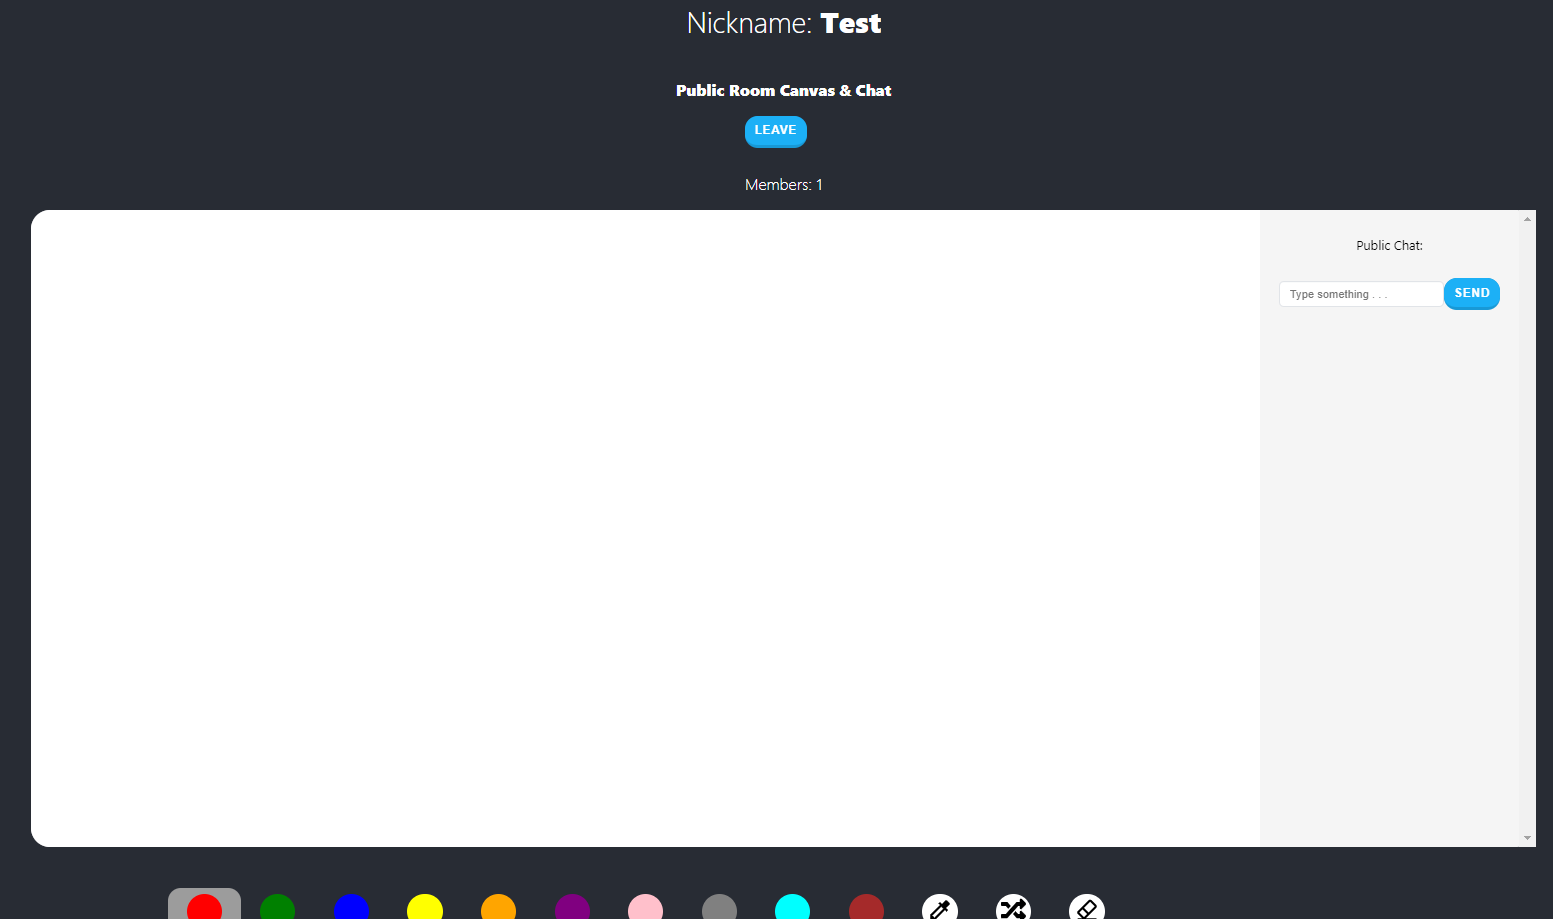
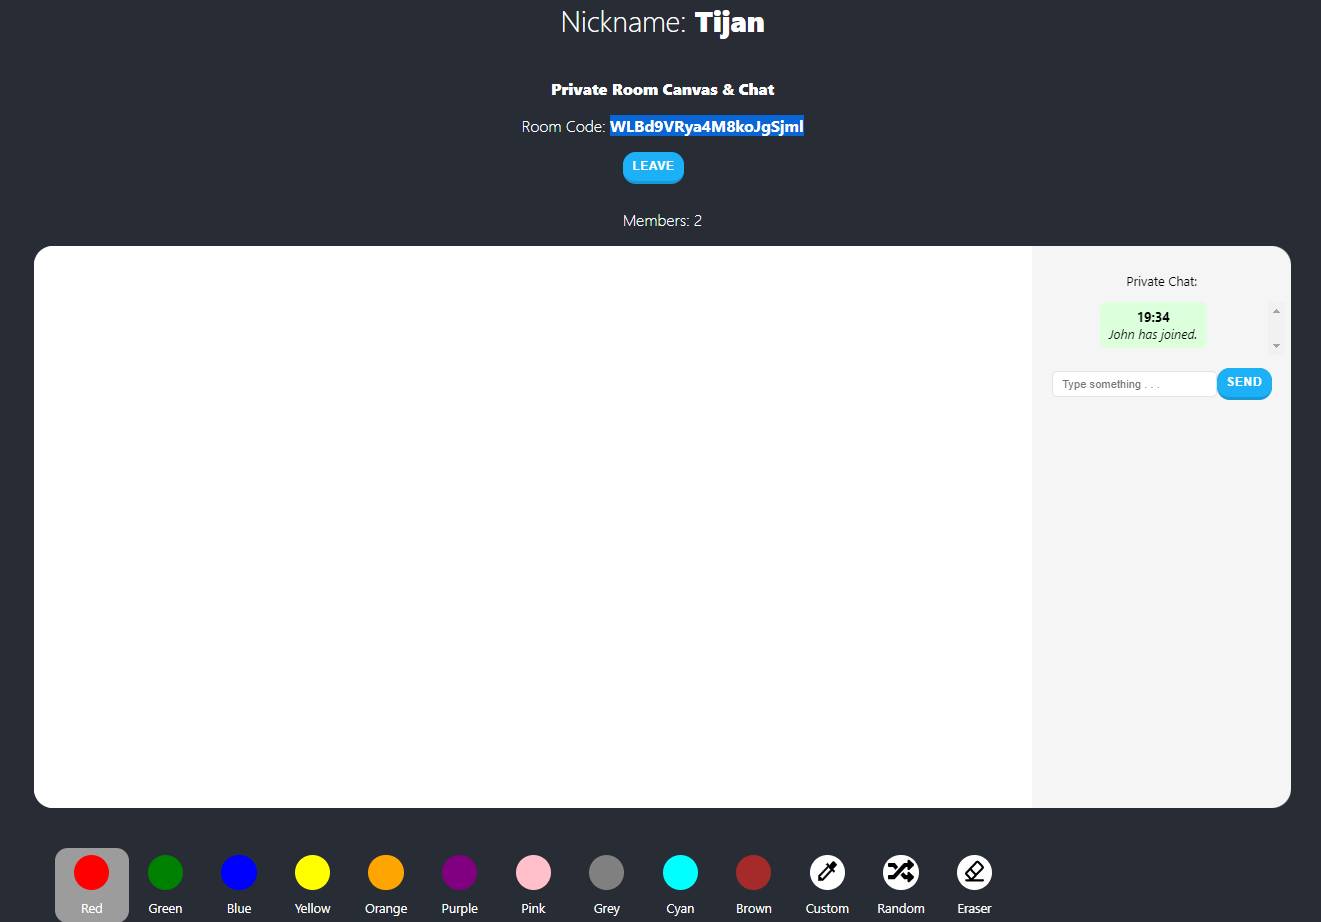
fixed chat bug

Changed region(s): [[0.0, 0.0914, 0.9932, 1.0], [0.4345, 0.0, 0.5897, 0.0609]]

diff --git a/ui/src/components/Chat/ChatRooms.tsx b/ui/src/components/Chat/ChatRooms.tsx
@@ -10,7 +10,7 @@ interface ChatRoomsProps {
 
 const ChatRooms: React.FC<ChatRoomsProps> = ({ user, roomId }) => {
 
-  const [messages, setMessages] = useState<MessageRoom[]>([]);
+  const [messages, setMessages] = useState<Message[]>([]);
   const [toSend, setToSend] = useState<string>("");
   const [fetchAmount, setFetchAmount] = useState<number>(10);
 
@@ -41,32 +41,59 @@ const ChatRooms: React.FC<ChatRoomsProps> = ({ user, roomId }) => {
       console.log("data: ", data);
       console.log("messages ", messages);
       if(data!=messages[messages.length-1]) {
-        setMessages(prev => [...prev, data]);
+        setMessages(prev => [...prev, data.message]);
         console.log("added");
         setToSend("");
       }
     });
   }, []);
 
+  useEffect(() => {
+    (async function get() {
+      if(roomId == "public") {
+        const url = `/last-messages${fetchAmount==0 ? "":`?=${fetchAmount}`}`;
+        const response = await fetch(url);
+        const lastMessages = await response.json();
+        setMessages(lastMessages.messages);
+      }
+    })();
+  }, [fetchAmount]);
+
+  useEffect(() => {
+    bottomRef.current?.scrollIntoView({behavior: "smooth"});
+  }, [messages]);
+
   return(
-    <div className="chat-div" style={{ height: window.innerHeight*0.85 }}>
+    <div className="chat-div" style={{ height: window.innerHeight*0.75 }}>
       <div style={{ paddingTop: "1rem", paddingBottom: "1rem", paddingLeft: "0.5rem", paddingRight: "0.5rem" }}>
         <p>{roomId.length>14? "Private":"Public"} Chat:</p>
-        {messages.map((message: MessageRoom, index: number) => {
-          {/**fix later */}
-          if(message!==messages[index-1]) {
-            return(
-              <MessageComponent
-                key={index}
-                message={message.message}
-                nickname={user.username}
-              />
-            );
-          }
-        })}
+        {roomId.length<19 ? (
+          <p>Load last
+            <select name="amounts" id="amount" value={fetchAmount} onChange={e => setFetchAmount(Number(e.target.value))}>
+              <option value={10}>10</option>
+              <option value={25}>25</option>
+              <option value={50}>50</option>
+              <option value={100}>100</option>
+              <option value={0}>all</option>
+            </select>
+          messages</p>
+        ):null}
+        <div style={{ maxHeight: "32rem", overflow: "scroll", overflowX: "hidden" }}>
+          {messages.map((message: Message, index: number) => {
+            {/**fix later */}
+            if(message!==messages[index-1]) {
+              return(
+                <MessageComponent
+                  key={index}
+                  message={message}
+                  nickname={user.username}
+                />
+              );
+            }
+          })}
+        </div>
+        <div ref={bottomRef} />
         
-        {/*        <div ref={bottomRef} />
-*/}
         <div className="chat-input-box">
           <input className="input" placeholder="Type something . . ." value={toSend} onChange={e => setToSend(e.target.value)} />
           <button className="button-19" onClick={sendMessage}>Send</button>

diff --git a/backend/server/index.js b/backend/server/index.js
@@ -5,8 +5,6 @@ const server = http.createServer(app);
 const io = require('socket.io')(server, {cors: {origin: "*"}});
 const PORT = process.env.PORT || 3001;
 
-app.use(express.json());
-app.use(express.urlencoded({ extended: false }));
 
 let lastImage;
 let lastPublicMessages = [];
@@ -53,7 +51,7 @@ io.use((socket, next) => {
       userID: id,
       username: _socket.username,
     });
-    if(_socket.username == username) {
+    if(_socket.username.toLowerCase() == username.toLowerCase()) {
       alreadyTaken = true;
     }
   }
@@ -145,6 +143,11 @@ io.on('connection', (socket)=> {
     socket.join(roomName);
     console.log("joined", socket.rooms);
     socket.emit("joined-room", roomName);
+    const data = {
[1 lines of base64/hex data omitted]
+      roomId: room,
+    }
+    socket.emit("canvas-rooms", data);
   });
 
   // JOIN ROOM
@@ -172,9 +175,13 @@ io.on('connection', (socket)=> {
 
   // GET ROOM MEMBERS
   socket.on("get-num-of-members", (room) => {
-    let members =  io.sockets.adapter.rooms.get(room).size;
-    io.to(room).emit("members", members);
-  })
+    if(io.sockets.adapter.rooms.get(room)) {
+      let members =  io.sockets.adapter.rooms.get(room).size;
+      io.to(room).emit("members", members);
+    }else{
+      io.to(room).emit("members", "-");
+    }
+  });
 
   // LEAVE ROOM
   socket.on("leave-room", (room) => {
@@ -200,7 +207,6 @@ io.on('connection', (socket)=> {
     if(roomId=="public") {
       lastImage = image;
     }
-    console.log("Received Image Data for public board.")
     io.in(roomId).emit('canvas-rooms', data);   // broadcast -> everyone except sender, emit -> everyone
   });
 

diff --git a/ui/src/App.tsx b/ui/src/App.tsx
@@ -7,7 +7,7 @@ import CanvasRooms from "./components/Canvas/CanvasRooms";
 
 function App() {
 
-  const [members, setMembers] = useState<number>(1);
+  const [members, setMembers] = useState<number|string>(1);
   const [room, setRoom] = useState<string>("");
   const [roomInput, setRoomInput] = useState<string>("");
   const [nickname, setNickname] = useState<string>("");
@@ -91,6 +91,15 @@ function App() {
     socket.emit("join-room", "public");
   };
 
+  const sendEmail = () => {
+    fetch("/send-email", {
+      method: "POST",
+      body: JSON.stringify({
+        to: "test"
+      })
+    }).then(res => res.json()).then(data => console.log(data));
+  };
+
   return (
     <>
       <div className="App">
@@ -133,19 +142,32 @@ function App() {
                   <p  className='nickname-text' style={{ fontWeight: "300" }}>Members: {members}</p>
                 </div>
                 <div style={{ display: "flex", flexDirection: "row", justifySelf: "center", justifyContent: "center", marginLeft: "auto", marginRight: "auto" }}>
-                  <div>
-                    <CanvasRooms setMembers={setMembers} roomId={room} />
-                  </div>
-                  <div>
-                    <ChatRooms roomId={room} user={user ? user:{userID: "", username: ""}} />
-                  </div>
+                  {room.length>19 ? (
+                    <>
+                      <div>
+                        <CanvasRooms setMembers={setMembers} roomId={room} />
+                      </div>
+                      <div>
+                        <ChatRooms roomId={room} user={user ? user:{userID: "", username: ""}} />
+                      </div>
+                    </>
+                  ):(
+                    <>
+                      <div>
+                        <CanvasRooms setMembers={setMembers} roomId={"public"} />
+                      </div>
+                      <div>
+                        <ChatRooms roomId={"public"} user={user ? user:{userID: "", username: ""}} />
+                      </div>
+                    </>
+                  )}
                 </div>
               </>
             )}
           </>
         )}
-
       </div>
+      <button onClick={sendEmail}>Send</button>
     </>
   );
 }

diff --git a/ui/src/components/Chat/Message.tsx b/ui/src/components/Chat/Message.tsx
@@ -8,8 +8,7 @@ interface MessageProps {
 
 const MessageComponent: React.FC<MessageProps> = ({ message, nickname }) => {
   const isSender = message.sender==nickname;
-  console.log(message);
-
+  
   const getClassName = () => {
     const isSender = message.sender === nickname;
     const isSystem = message.sender === "";
@@ -18,11 +17,22 @@ const MessageComponent: React.FC<MessageProps> = ({ message, nickname }) => {
     else return "message-div-text";
   };
 
+  const getMessage = () => {
+    const str = message.message;
+    const first = str.split(" ")[0];
+
+    if(first.toLowerCase()===nickname.toLowerCase() && message.sender==="") {
+      return str.replace(`${first} has`, "You have");
+    }
+    
+    return str;
+  };
+
   return(
     <div className={`${getClassName()} message-div`}>
       <span><b>{message.sender} {isSender ? "(you)":""}{"   "}{message.date}</b></span>
       <br />
-      <span><i>{message.message}</i></span>
+      <span><i>{getMessage()}</i></span>
     </div>
   );
 };

diff --git a/ui/src/components/Canvas/CanvasRooms.tsx b/ui/src/components/Canvas/CanvasRooms.tsx
@@ -293,7 +293,7 @@ const CanvasRooms: React.FC<CanvasRoomProps> = ({
   return(
     <>
       <div className="canvas-outer-box">
-        <canvas className="canvas" height={window.innerHeight*0.85} width={window.innerWidth*0.8} ref={canvasRef} />
+        <canvas className="canvas" height={window.innerHeight*0.75} width={window.innerWidth*0.65} ref={canvasRef} />
       </div>
       
       <CanvasSettingsRooms

diff --git a/ui/src/App.css b/ui/src/App.css
@@ -100,8 +100,6 @@
   background-color: whitesmoke;
   border-top-right-radius: 1.5rem;
   border-bottom-right-radius: 1.5rem;
-  overflow-x: hidden;
-  overflow-y: scroll;
 }
 
 .chat-input-box {

diff --git a/README.md b/README.md
@@ -1,28 +1,29 @@
 # Collaborative Whiteboard App
-Is a online collaborative whiteboard app, where users can draw and chat on a public whiteboard or create their own private rooms with private chat and whiteboard. They can than share their private room code and other people will be able to join. They can also download the whiteboard or mint it as a NFT (on mumbai testnet network).
+Is a online collaborative whiteboard app, where users can draw and chat on a public whiteboard or create their own private rooms with private chat and private whiteboard visible only to them. They can than share their private room code and other people will be able to join. They can also download the whiteboard as an image or mint it as an NFT (on mumbai testnet network).
 
 Please leave a ⭐ if you like it.
 
-![Whiteboard App Preview](./app-preview.png)
+![Whiteboard App Preview](./whiteboard-app-preview.png)
 
 ## Try It Out
-You can try this app [here](https://tijan.dev/).
+You can try it [here](https://tijan.dev/).
 
 If you find any **errors** ⛔, please report them to [errors@tijan.dev](mailto:errors@tijan.dev) thanks 🙏.
 
 ## Technologies
 For this project I used:
-- [React](https://reactjs.org/)
-- [TypeScript](https://www.typescriptlang.org/)
-- [Solidity](https://soliditylang.org/)
+- [React](https://reactjs.org/) - framework I used to create frontend
+- [TypeScript](https://www.typescriptlang.org/) - used in frontend
+- [Solidity](https://soliditylang.org/) - for NFT smart contract
+- [Moralis](https://moralis.io/) - for connecting wallet, uploading to IPFS and minting NFT
 - [CSS](https://developer.mozilla.org/en-US/docs/Web/CSS)
 - [NodeJS](https://nodejs.org/en/) and
-- [Socket.io](https://socket.io/)
+- [Socket.io](https://socket.io/) - both to create backend
 
 ## About Me
-Hi! 👋 I'm Tijan, passionate **blockchain developer** from Slovenia. Take a look at my [portfolio](https://tijan.dev).
+Hi! 👋 I'm Tijan, passionate **blockchain developer** from Slovenia. Take a look at my portfolio website [here](https://tijan.dev).
 
-You can get in touch with me through my [website](https://tijan.dev) or contact me on [twitter](https://twitter.com/0xTijan).
+You can get in touch with me through my [website](https://tijan.dev), contact me on [twitter](https://twitter.com/0xTijan) or you can send me an email to [contactme@tijan.dev](mailto:contactme@tijan.dev).
 
 Do you like my work? You can support me by donating to this address: 0xC4C6A0bc6648a4F343bd86D7C48C9967530fbB48
 
